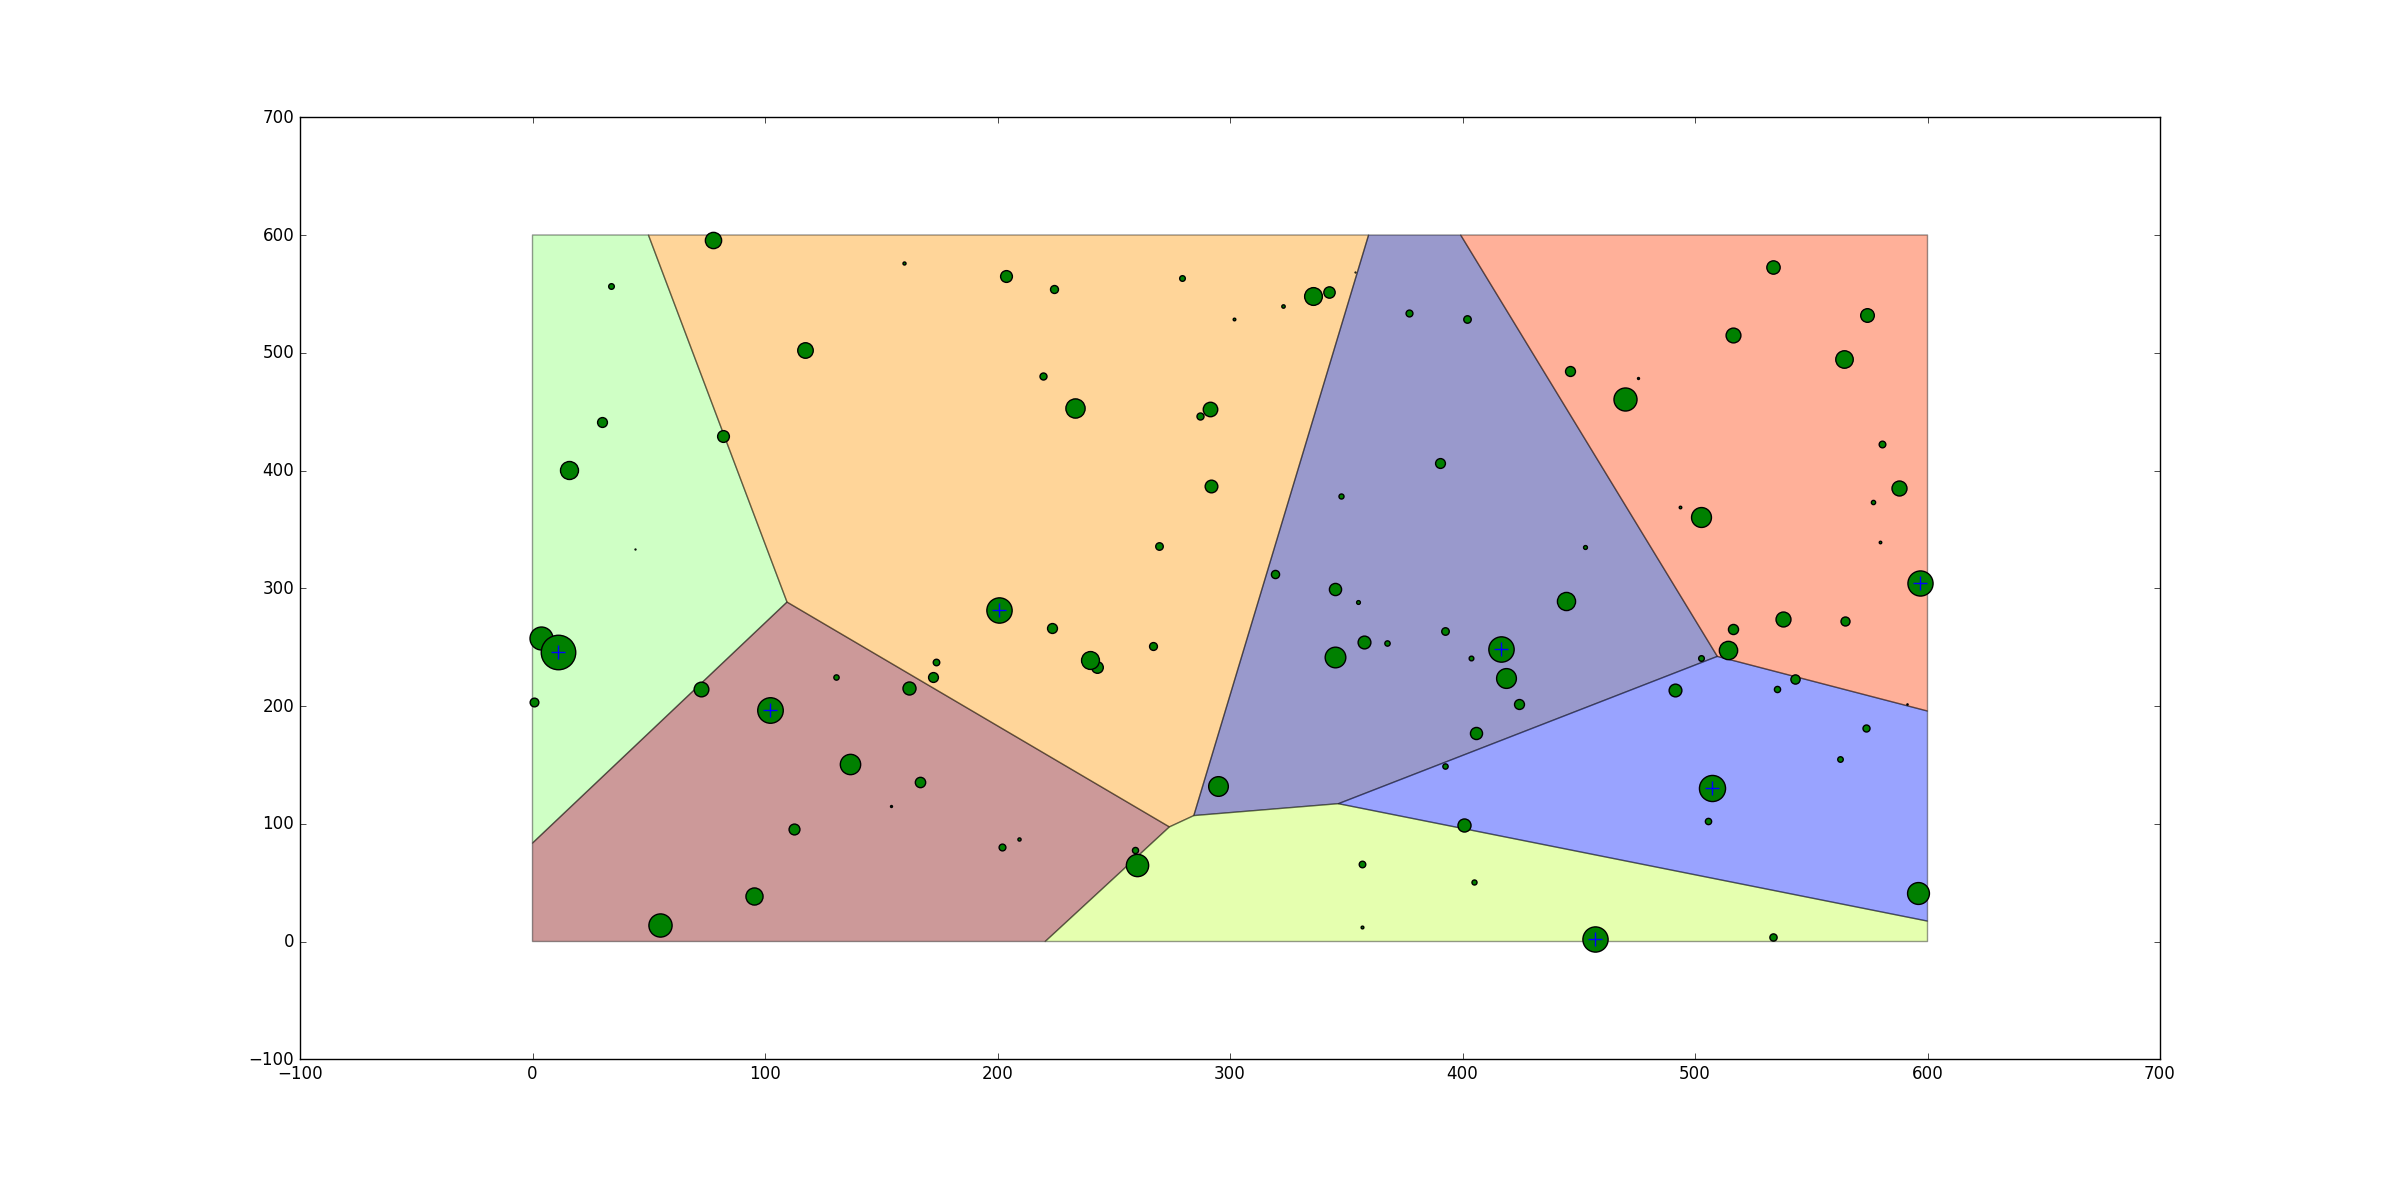
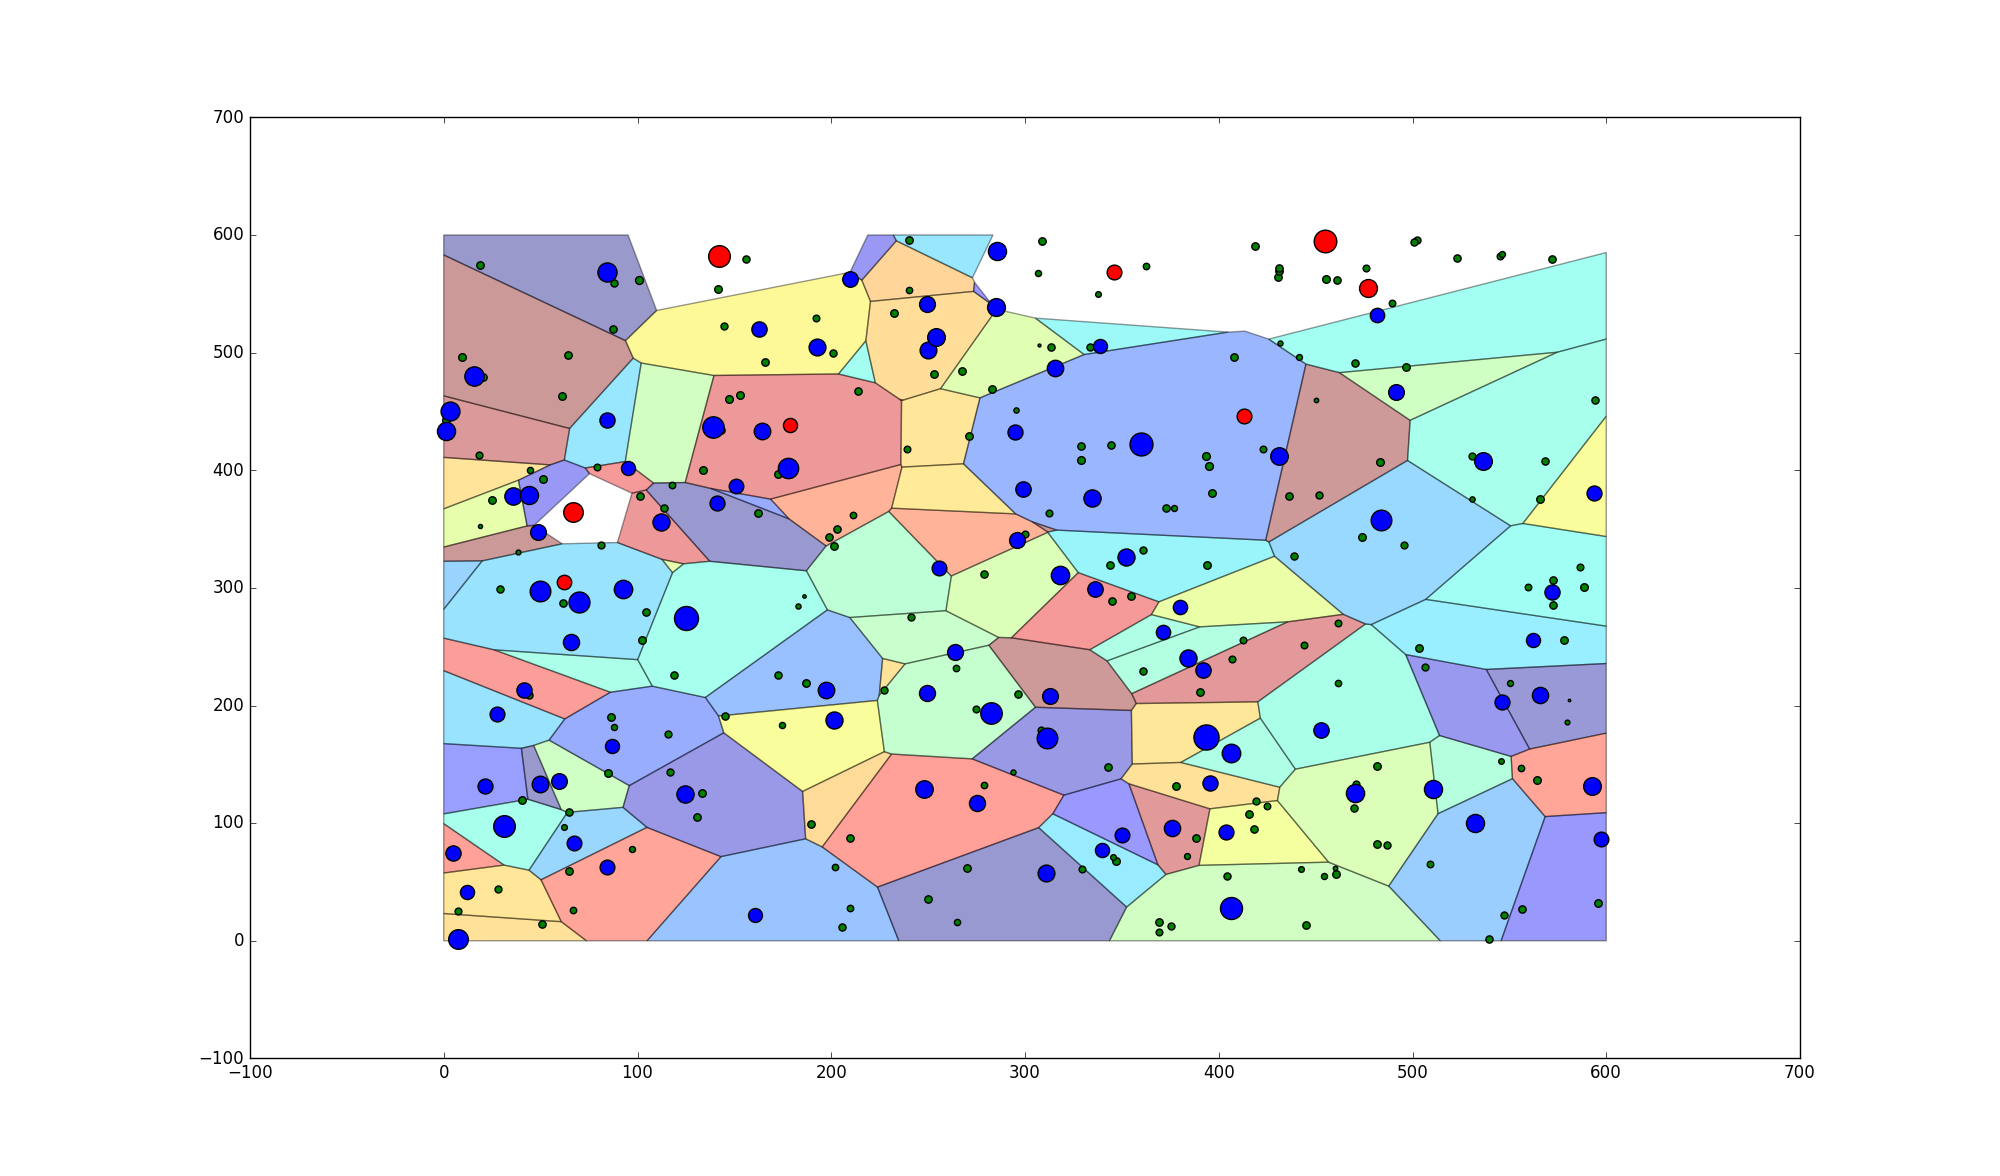
Got visualiser working again

diff --git a/gen_cells.py b/gen_cells.py
@@ -10,7 +10,7 @@ def gen_cells(vorspace,size):
     cells   = []
     
     for point in vorspace.points:
-        center  = [point.x,point.y]
+        center  = [point.x,point.y,point.z]
         lines   = []
         eps     = []
         #filters the list of lines to get only those within the space
@@ -22,9 +22,12 @@ def gen_cells(vorspace,size):
                 eps.append(edgetrim(rel.line,vorspace.edge_painter,size))
         #generates list of points to make up the cell
         if len(eps) == 2:
-            cells.append([center,edgecell(eps,lines,size)])
+            cells.append([center,edgecell(eps,lines,size)])                    
         else:
-            cells.append([center,centercell(lines)])
+            if len(lines)==0:
+                continue
+            else:
+                cells.append([center,centercell(lines)])
 
     return cells
 #generates and edge cell of the voronoi
@@ -47,7 +50,7 @@ def edgecell(eps,lines,size):
         return centercell(lines)
     else:
         #means it is a corner piece and a corner must be put in.
-        if nearly_equal(p1.x,0) or nearly_equal(p1.x,size[0]):
+        if (size[0]-p1.x < size[0]-p2.x and size[0]-p1.x < size[0]/1000.0) or (p1.x < p2.x and p1.x < size[0]/1000.0):
             p   = Point(p1.x,p2.y,0)
         else:
             p   = Point(p2.x,p1.y,0)
@@ -56,7 +59,6 @@ def edgecell(eps,lines,size):
         lines.append(Line(p,p1))
         lines.append(Line(p,p2))
         return centercell(lines)
-    
         
 #generate cells fully inside the space of the voronoi 
 def centercell(lines):
@@ -74,6 +76,9 @@ def centercell(lines):
                 results.append(nextp)
                 #returns a list of 2-point arrays        
                 return depointify(results)
+        if nexseg == 0:
+            print results
+            return None
         #appends the checking point to the results and moves to the next one
         if nexseg.p1 == nextp:
             results.append(nextp)
@@ -147,7 +152,7 @@ def depointify(points):
     return results
 
 #checks if two numbers are approximately equal    
-def nearly_equal(a,b,sig_fig=5):
+def nearly_equal(a,b,sig_fig=1):
     return ( a==b or 
              int(a*10**sig_fig) == int(b*10**sig_fig)
            )

diff --git a/layout.py b/layout.py
@@ -33,7 +33,7 @@ class VoronoiSpace:
             #print 'len = 2'
             lower = range_points[0]
             upper = range_points[1]
-            line = [Line.wbiSector(self.points[lower],self.points[upper])]
+            line = [Line.WbiSector(self.points[lower],self.points[upper])]
             line[0]._p1 = self.points[lower]
             line[0]._p2 = self.points[upper]
             #hash table for point mapping to related biSector
@@ -54,14 +54,13 @@ class VoronoiSpace:
                 mid = []
                 for i in range(lower,upper):
                     for j in range(i+1,upper+1):
-                        lines.append(Line.wbiSector(self.points[i],self.points[j]))
+                        lines.append(Line.WbiSector(self.points[i],self.points[j]))
                         self.points[i].related.append(pair(lines[-1],self.points[j]))
                         self.points[j].related.append(pair(lines[-1],self.points[i]))
                         lines[-1]._p1 = self.points[i]
                         lines[-1]._p2 = self.points[j]
                         q = self.points[i].z/float(self.points[i].z+self.points[j].z)
-                        print q
-                        mid.append(((self.points[i]+self.points[j])/2,t))
+                        mid.append((self.points[i]*(1-q) + self.points[j]*q,t))
                         dis.append((t,(self.points[i].x-self.points[j].x)**2+(self.points[i].y-self.points[j].y)**2,Line(self.points[i],self.points[j])))
                         t = t+1
 

diff --git a/tesselvisual.py b/tesselvisual.py
@@ -2,7 +2,6 @@ def tesselvisual(arr_cells, arr_obj):
 
     #overhead
     import numpy as np
-    #from scipy.spatial import Voronoi, voronoi_plot_2d
     import matplotlib.pyplot as plt
     import matplotlib
     from matplotlib.patches import Polygon
@@ -10,18 +9,15 @@ def tesselvisual(arr_cells, arr_obj):
     
     #extract centres
     centres = []
-    vert = []
+    rcentres = []
     polys = []
     for cell in arr_cells:
-        centres.append(cell[0])
-        poly = Polygon(cell[1],True)
-        polys.append(poly)
-        #for v in range(1,len(cell)):
-        #    vert.append(cell[v])
-    
-    ##Generate base voronoi diagram
-    #vor = Voronoi(centres)
-    #voronoi_plot_2d(vor) 
+        if not cell[1] == None:
+            centres.append(cell[0])
+            poly = Polygon(cell[1],True)
+            polys.append(poly)
+        else:
+            rcentres.append(cell[0])
     
     
     #plot voronoi with polygons
@@ -36,14 +32,15 @@ def tesselvisual(arr_cells, arr_obj):
     
     ax.add_collection(p)
     
-    #for v in vert:
-    #    plt.scatter(v[0],v[1],c='r')
     
     for G in arr_obj:
-        plt.scatter(G.x,G.y,c='g',s=G.z)#s=10*np.log2(G[2]))
+        plt.scatter(G.x,G.y,c='g',s=G.z*10)
     
     for c in centres:
-         plt.scatter(c[0],c[1],c='b',marker='+',s=100)
+         plt.scatter(c[0],c[1],c='b',s=10**(c[2]-1))
          
+    for r in rcentres:
+         plt.scatter(r[0],r[1],c='r',s=10**(r[2]-1))
+    
     plt.show
     return

diff --git a/output_test.py b/output_test.py
@@ -16,12 +16,12 @@ import gen_cells as gc
 planesize = [600,600]
 
 #generate list of galaxies
-sources = []
-for i in range(1000):
-    sources.append(Source(np.random.random()*planesize[0],np.random.random()*planesize[1],10000*(np.random.normal(0,0.1)**2)))
+#sources = []
+#for i in range(300):
+#    sources.append(Source(np.random.random()*planesize[0],np.random.random()*planesize[1],np.log10(abs(np.random.normal(0,0.1))*10000)))
 
 #objects above the threshold seleected
-stellars = sg.source_gen(sources,300)
+stellars = sg.source_gen(sources,3)
 
 #create space for voronoi to fill
 space = (Line(Point(0,0,0),Point(planesize[0],0,0)),Line(Point(0,0,0),Point(0,planesize[1],0)),Line(Point(planesize[0],0,0),Point(planesize[0],planesize[1],0)),Line(Point(0,planesize[1],0),Point(planesize[0],planesize[1],0)))

diff --git a/shape.py b/shape.py
@@ -139,11 +139,16 @@ class Line:
     def WbiSector(p1,p2):
         t = p1.z/float(p1.z+p2.z)
         print t
+        print p1
+        print p2
         mid = (p1*(1-t)) + (p2*t)
+        print mid
         vec = vector(p1,p2)
         p1 = (vec.nv*(100000))+mid
         p2 = (vec.nv*(-100000))+mid
-        return Line(p1,p2)
+        l = Line(p1,p2)
+        print l
+        return l
         
         
     def __eq__(self,other):
